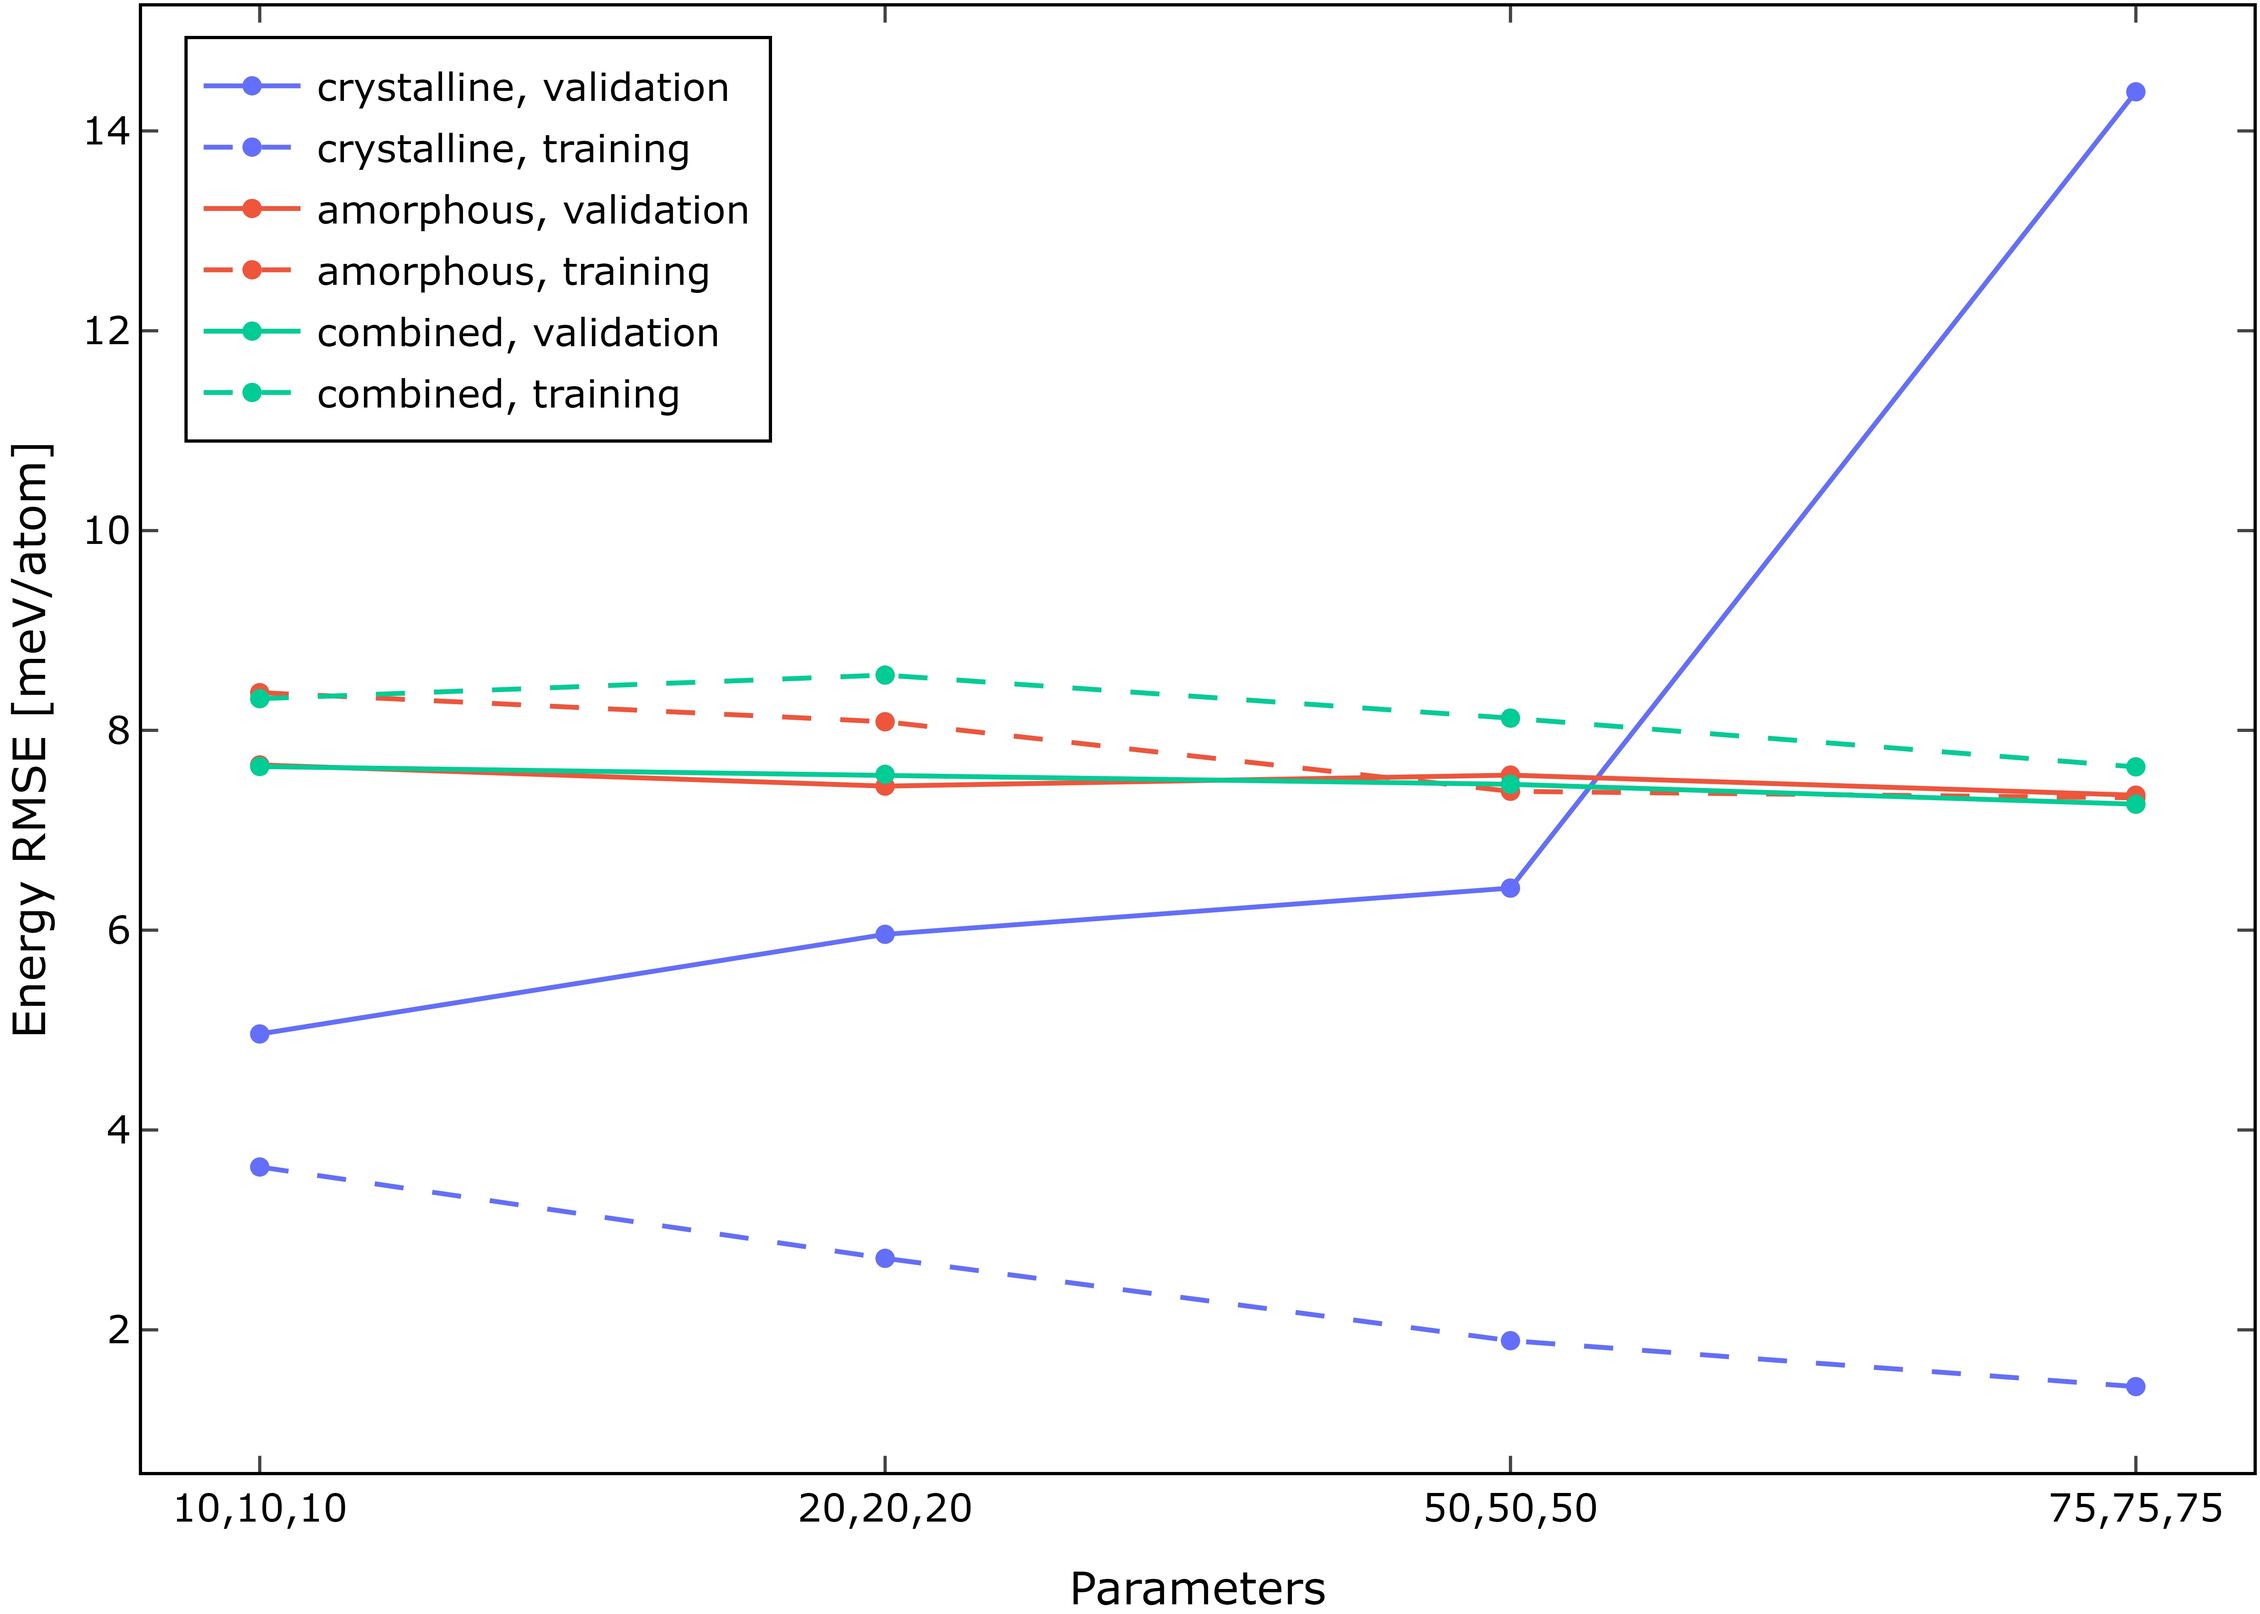
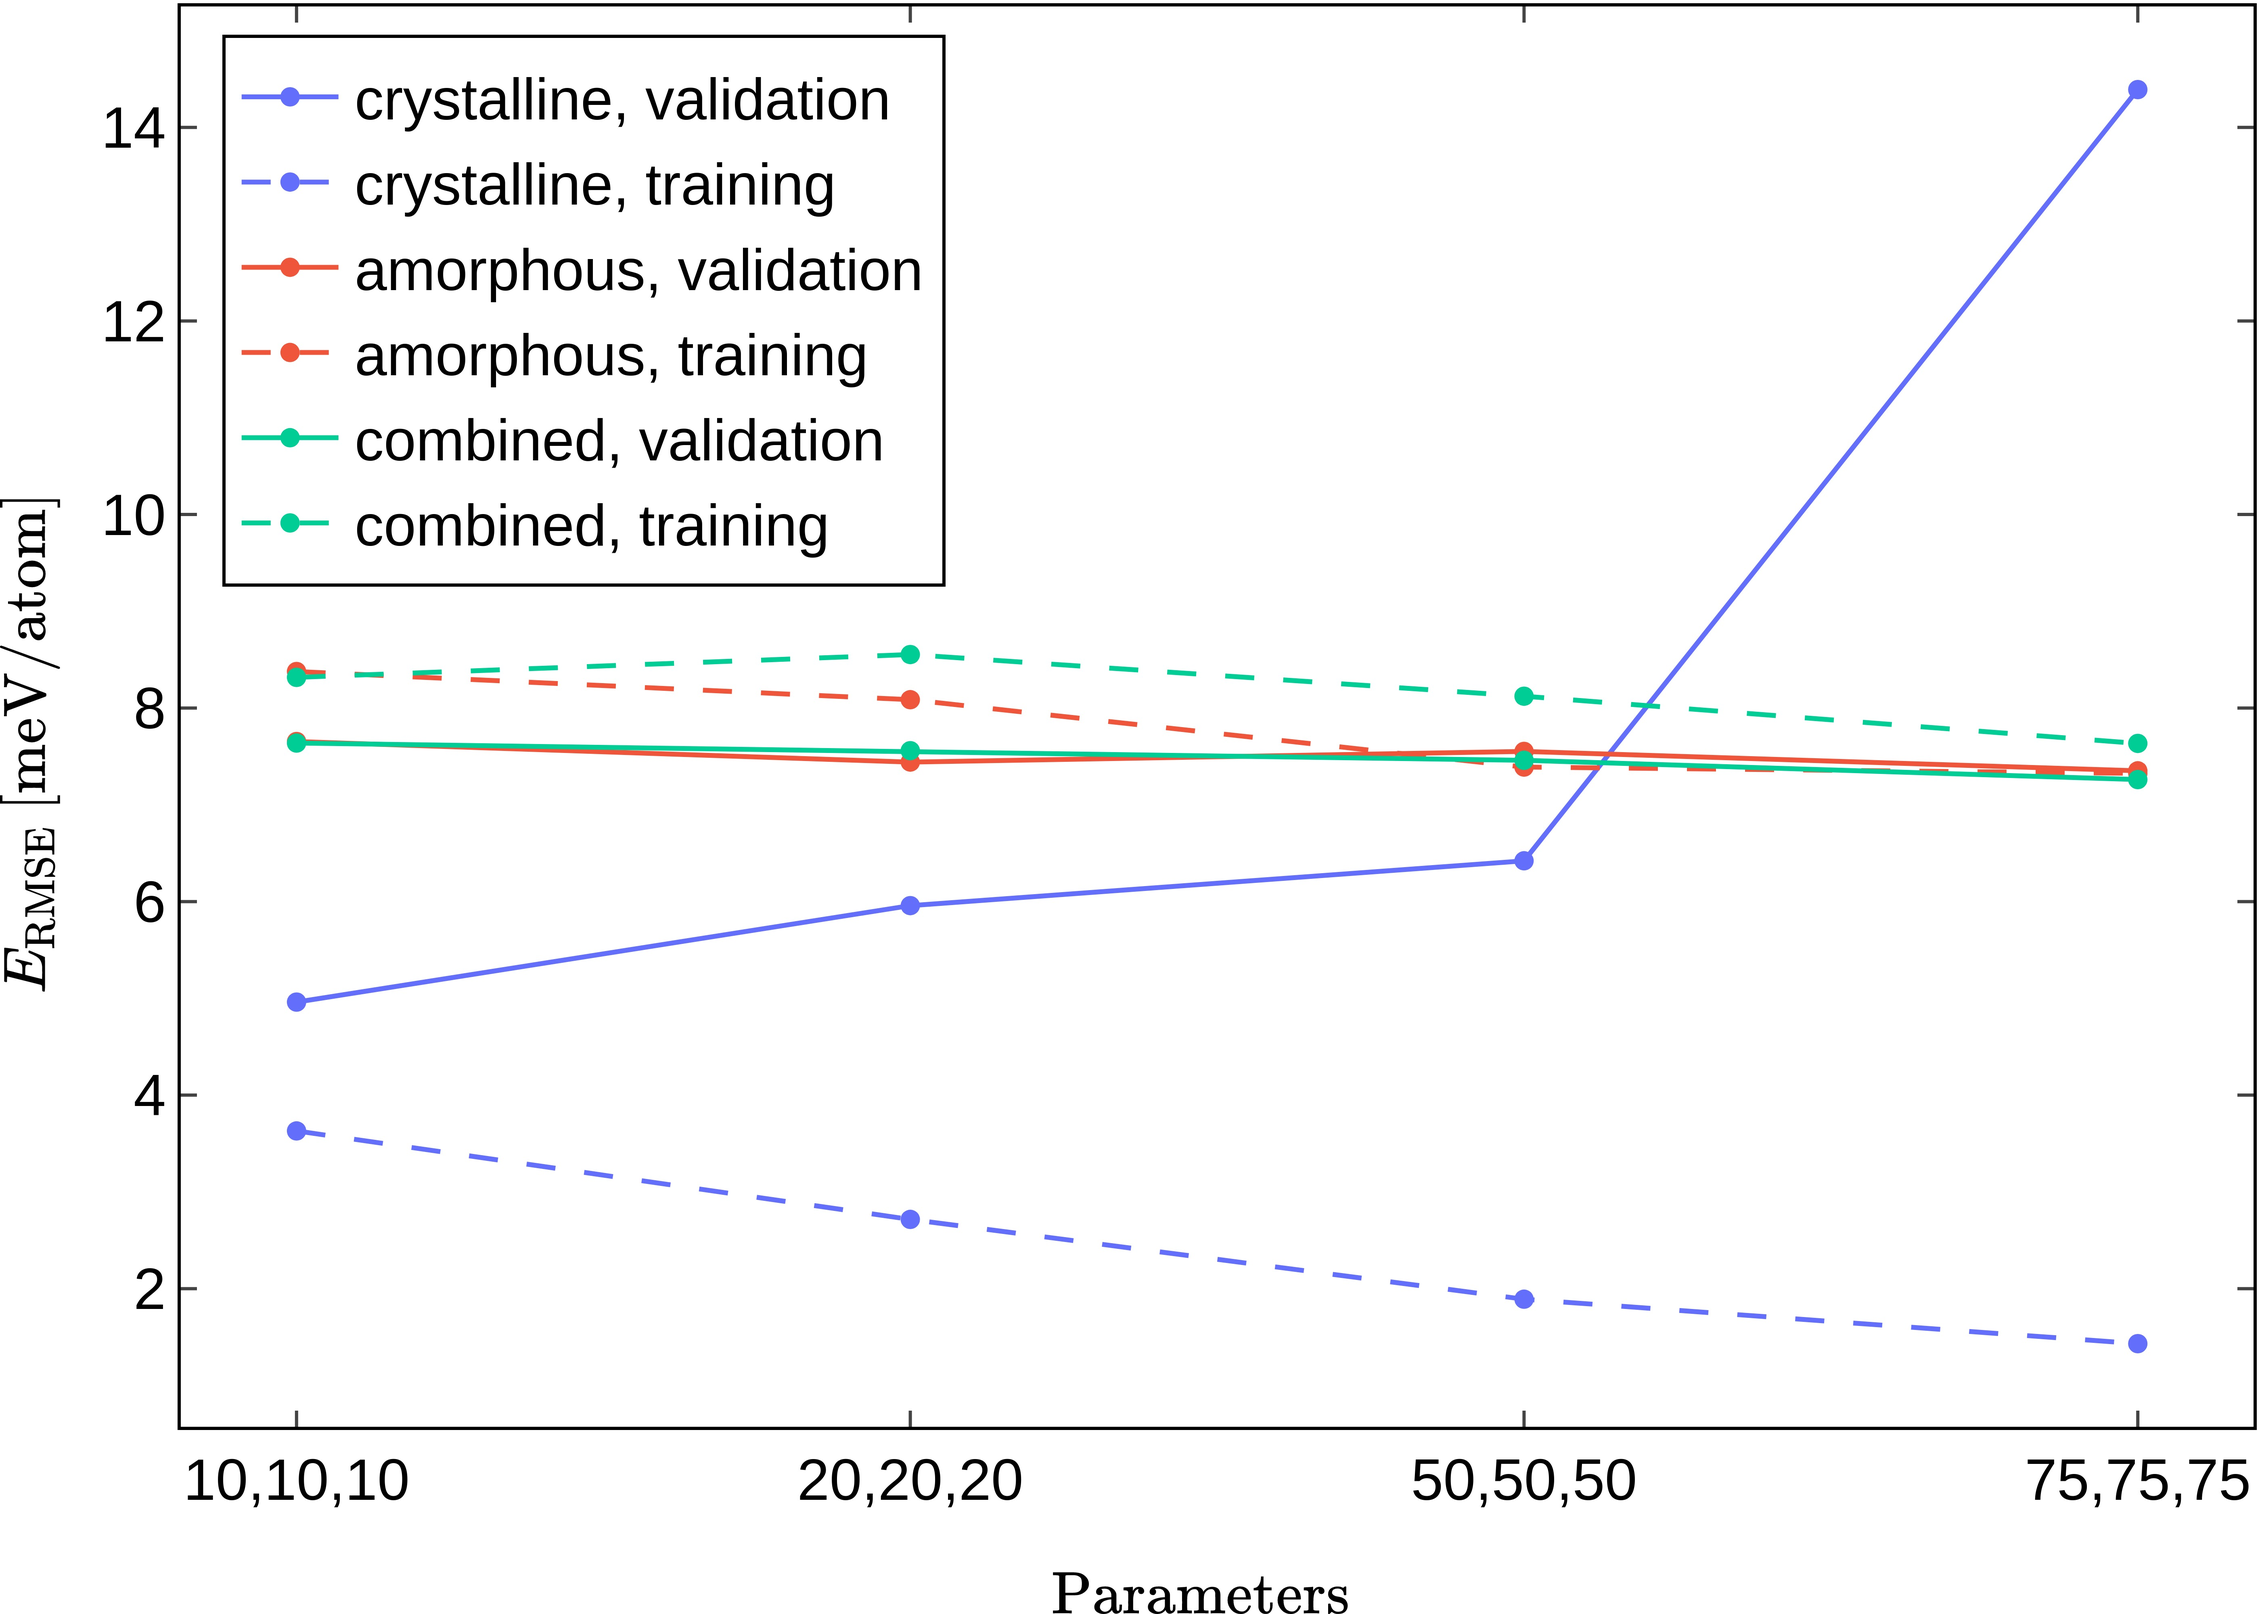
fix: more font sizes

diff --git a/ml4md/plot_error_curves.py b/ml4md/plot_error_curves.py
@@ -103,6 +103,7 @@ def main():
         )
 
         descriptor_energy_figure.update_layout(
+            font_size=18,
             font_color="#000",
             plot_bgcolor="#fff",
             xaxis=dict(
@@ -114,7 +115,7 @@ def main():
                 showline=True
             ),
             yaxis=dict(
-                title="Energy RMSE [meV/atom]",
+                title="$E_\\text{RMSE} \, [\mathrm{meV}/\mathrm{atom}]$",
                 showgrid=False,
                 linewidth=1,
                 linecolor="black",
@@ -122,7 +123,7 @@ def main():
                 ticks="inside",
                 showline=True
             ),
-            xaxis_title="Parameters",
+            xaxis_title="$\\text{Parameters}$",
             legend=dict(
                 x=.05,
                 y=.2,
@@ -134,6 +135,7 @@ def main():
         )
 
         descriptor_force_figure.update_layout(
+            font_size=18,
             font_color="#000",
             plot_bgcolor="#fff",
             xaxis=dict(
@@ -145,7 +147,7 @@ def main():
                 showline=True
             ),
             yaxis=dict(
-                title="Force RMSE [eV/Å]",
+                title="$F_\\text{RMSE} \, [\mathrm{eV}/\mathrm{Å}]$",
                 showgrid=False,
                 linewidth=1,
                 linecolor="black",
@@ -153,7 +155,7 @@ def main():
                 ticks="inside",
                 showline=True
             ),
-            xaxis_title="Parameters",
+            xaxis_title="$\\text{Parameters}$",
             legend=dict(
                 x=.6,
                 y=.5,
@@ -248,6 +250,7 @@ def main():
         )
 
         fitting_energy_figure.update_layout(
+            font_size=18,
             font_color="#000",
             plot_bgcolor="#fff",
             xaxis=dict(
@@ -259,7 +262,7 @@ def main():
                 showline=True
             ),
             yaxis=dict(
-                title="Energy RMSE [meV/atom]",
+                title="$E_\\text{RMSE} \, [\mathrm{meV}/\mathrm{atom}]$",
                 showgrid=False,
                 linewidth=1,
                 linecolor="black",
@@ -267,7 +270,7 @@ def main():
                 ticks="inside",
                 showline=True
             ),
-            xaxis_title="Parameters",
+            xaxis_title="$\\text{Parameters}$",
             legend=dict(
                 x=.02,
                 y=.98,
@@ -279,6 +282,7 @@ def main():
         )
 
         fitting_force_figure.update_layout(
+            font_size=18,
             font_color="#000",
             plot_bgcolor="#fff",
             xaxis=dict(
@@ -290,7 +294,7 @@ def main():
                 showline=True
             ),
             yaxis=dict(
-                title="Force RMSE [eV/Å]",
+                title="$F_\\text{RMSE} \, [\mathrm{eV}/\mathrm{Å}]$",
                 showgrid=False,
                 linewidth=1,
                 linecolor="black",
@@ -298,7 +302,7 @@ def main():
                 ticks="inside",
                 showline=True
             ),
-            xaxis_title="Parameters",
+            xaxis_title="$\\text{Parameters}$",
             legend=dict(
                 x=.65,
                 y=.5,
